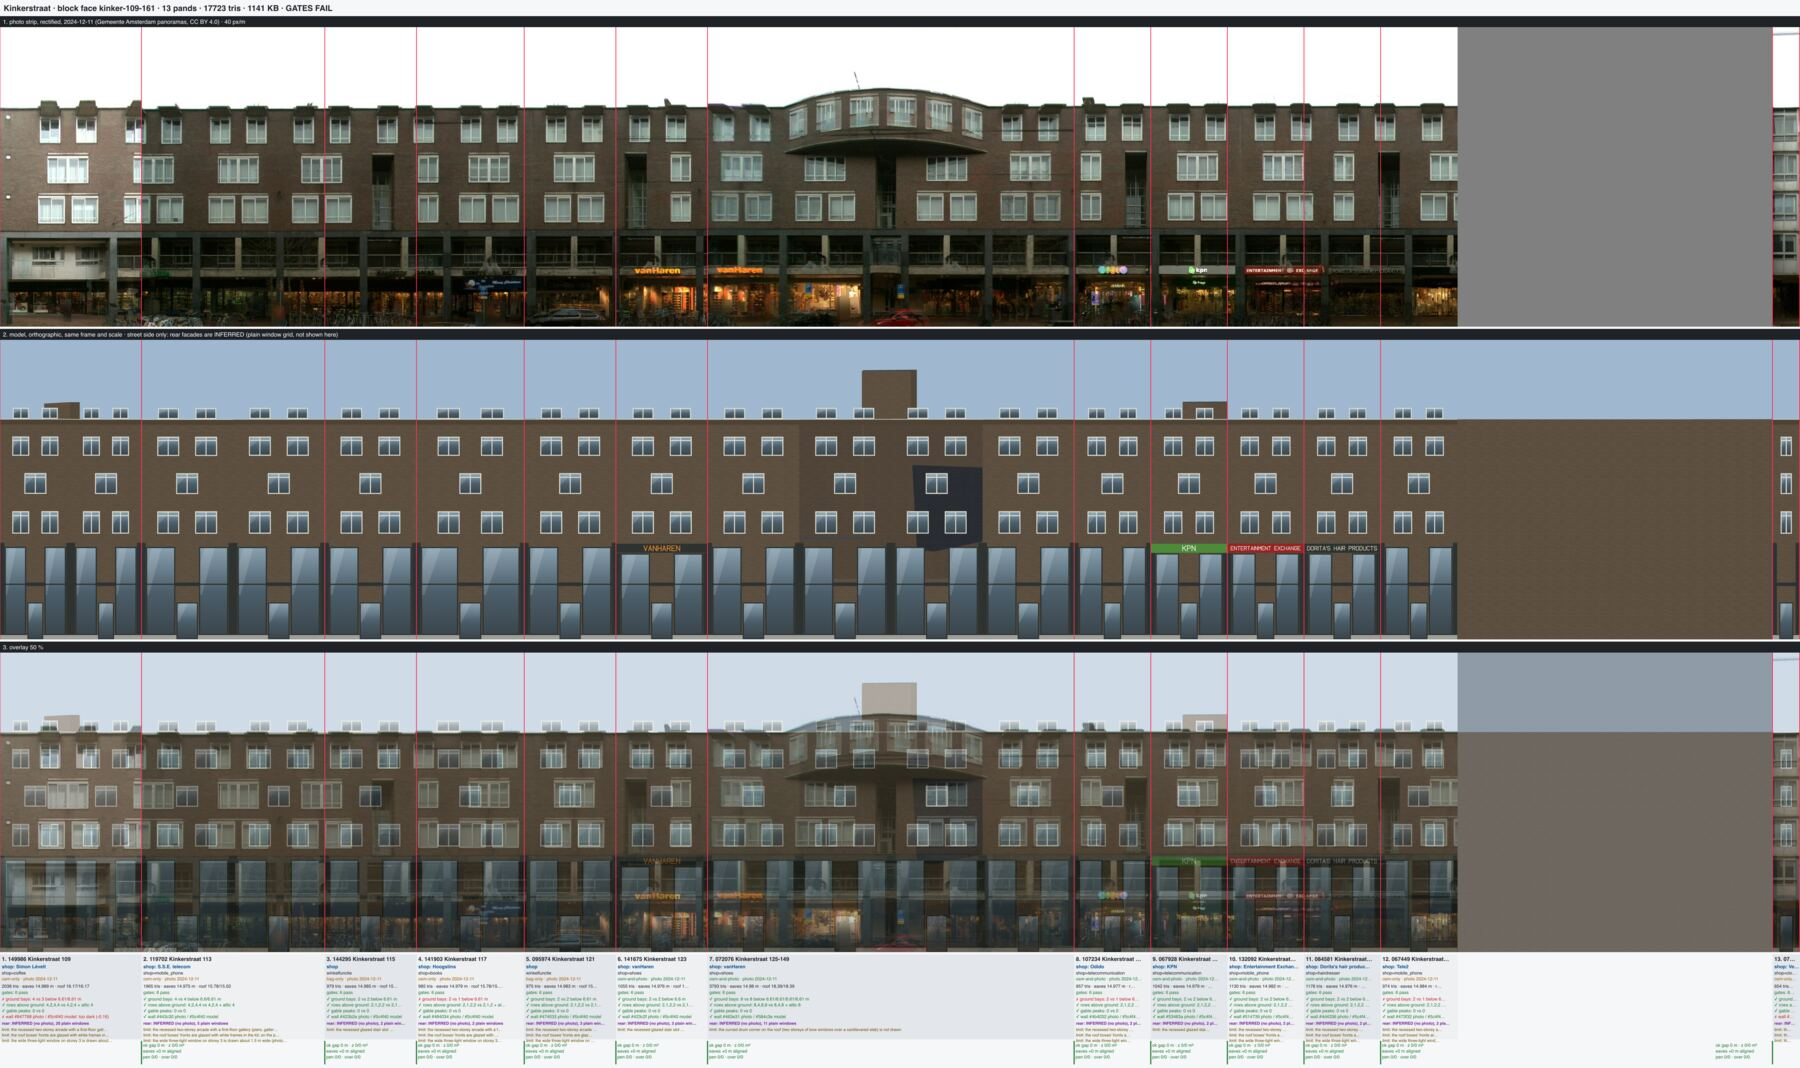
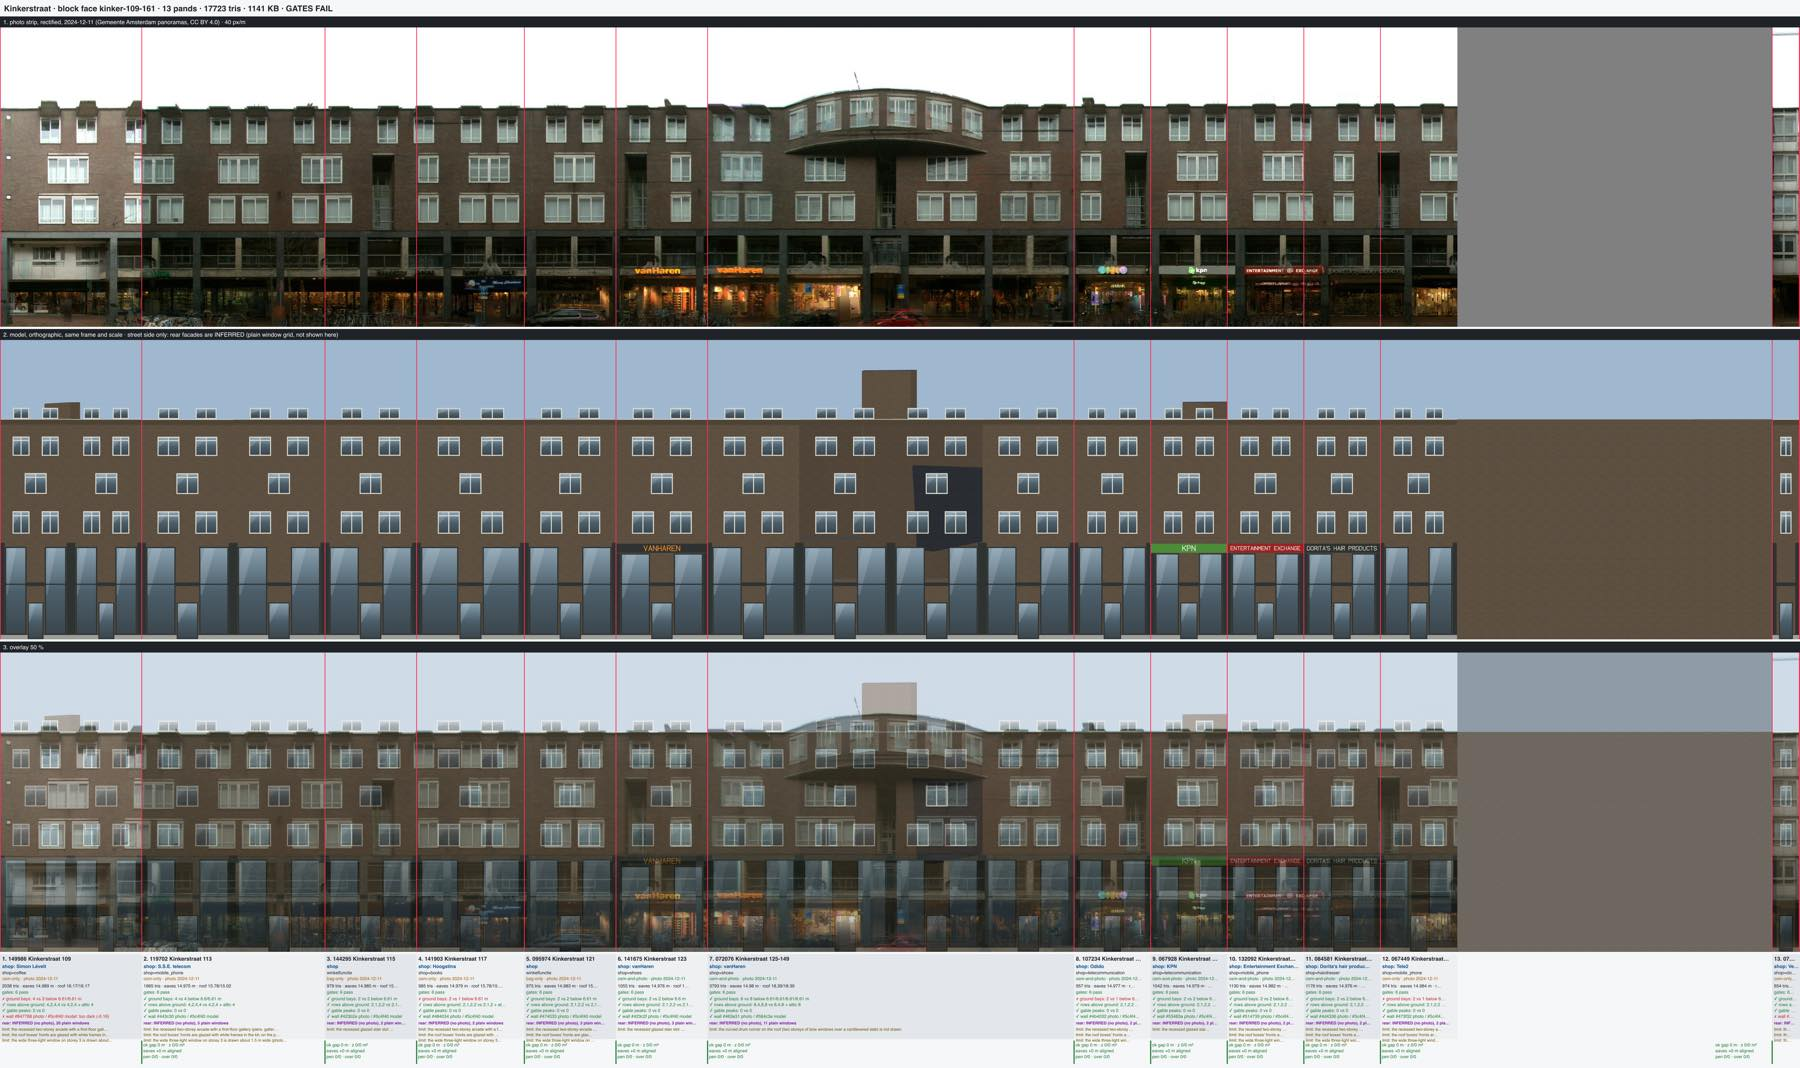
Kinkerstraat types take the Oud-West 1900 keys: painted sill and transom courses on the 1890 brick-arched row, painted brick on black-painted
kinker-1890-brick-arched: bands painted on the sill and transom lines at 0.10 / 0.12 m, the type's own measured band
rows. The planned 0.04 / 0.05 m sill + head bands drew 2 px lines at 40 px/m and put the upper course on the arch
springing, ~0.75 m above the photo's course. kinker-1895-painted-band black-painted: wallMaterial painted-brick
instead of the stucco slot. kinker-2-30 recompiled (28,695 -> 32,043 tris, gates pass, GLB audit z-fight unchanged
from main) and its sheet and 18-4 zoom re-rendered; kinker-109-161 chunk byte-identical, sheet re-rendered.
Named regression in kinkerstraat.test.ts.

diff --git a/src/canalRecall/buildingRecipe/kinkerstraat.test.ts b/src/canalRecall/buildingRecipe/kinkerstraat.test.ts
@@ -72,4 +72,10 @@ test('Kinkerstraat proof faces (named regressions): 109-161 places the infill ty
   assert.equal(k8.windows, 't-window');
   assert.deepEqual(k8.windowHead?.archRing, {colour: 'stone', style: 'blocks', keystone: true}, 'Kinkerstraat 8: white blocked arch with keystone');
   assert.equal(row.find(i => i.pandId.endsWith('236471'))!.fronts[0].windowHead?.kind, 'flat', 'Kinkerstraat 28: flat heads under keystones');
+  // Oud-West 1900 keys wired after the Nassaukade merge: the 18-4 row's white sill and transom courses, 28's paint.
+  assert.equal(k8.bands, 'painted', 'Kinkerstraat 8: painted sill and transom courses');
+  assert.deepEqual(k8.bandLines, ['sill', 'transom']);
+  assert.deepEqual(k8.bandHeights, {sill: 0.1, transom: 0.12}, 'measured band rows, 0.10-0.13 m');
+  const k28 = row.find(i => i.pandId.endsWith('236471'))!;
+  assert.equal(k28.fronts[0].palette?.wallMaterial ?? k28.palette.wallMaterial, 'painted-brick', 'Kinkerstraat 28: black-painted brick');
 });

diff --git a/docs/kinkerstraat-types-20261014.md b/docs/kinkerstraat-types-20261014.md
@@ -75,11 +75,16 @@ Keys from other lanes used here, so that nothing is duplicated: `windows: "t-win
 {colour, style: "blocks", keystone}}`, `windowHeights`, `windowShare`, `storeyHeights`, `cornice: "frieze"`,
 `windowSurround: "sill"` and `bands: "speklagen"` come from the canal-windows lane (on main). The sill and head
 courses of `kinker-1890-brick-arched` belong to the Oud-West 1900 lane's `bands: "painted"` + `bandHeights`, and the
-black paint of `kinker-1895-painted-band` belongs to its `wallMaterial: "painted-brick"`. That lane is not on main yet
-(WIP commit d3f4ba0e, based before canal-windows). Until it lands, the committed types leave the painted courses out and
-draw black paint as the `stucco` slot. When it lands: add `"bands": "painted", "bandHeights": {"sill": 0.04, "head": 0.05}`
-to the `kinker-1890-brick-arched` body and switch `black-painted` to `wallMaterial: "painted-brick"`. The measured band
-heights above are the evidence for both.
+black paint of `kinker-1895-painted-band` belongs to its `wallMaterial: "painted-brick"`. Both are wired since the
+Nassaukade 506 merge (2026-10-14):
+
+- `kinker-1890-brick-arched` carries `"bands": "painted", "bandLines": ["sill", "transom"], "bandHeights": {"sill": 0.10,
+  "transom": 0.12}`. The hand-off planned `{"sill": 0.04, "head": 0.05}` with the default sill + head lines. On the sheet
+  that drew 1.6-2 px lines (40 px/m), invisible at gallery size, and put the upper line on the arch springing, about
+  0.75 m above the photo's course, which crosses the upper light. The type's own band rows (5.1-5.2, 7.15-7.28 m on
+  162482 and 236814) are 0.10-0.13 m tall, so the heights are those, and the upper line is the transom band (0.78 of the
+  window height), which lands within about 0.3 m of the photo's course.
+- `kinker-1895-painted-band`'s `black-painted` palette is `wallMaterial: "painted-brick"` instead of the `stucco` slot.
 
 ## Proof faces
 
@@ -124,8 +129,10 @@ colours are within tolerance.
 
 Verdict against the photo: storey lines, window axes, T-windows, blocked arch rings with keystones, the cornice line and
 the dormer rhythm read right at gallery size, and so do the pui colours (timber 12A-12C, black, red, white). The 18-4
-row's white sill and impost courses are missing until `bands: painted` lands, and that is the most visible difference
-on the sheet. Also still wrong: the frieze is a plain cream slab (the photo has consoles and panels); the dormers are
+row's white sill and impost courses are now drawn (`bands: painted`, sheet re-rendered after the Nassaukade merge): the
+sill course sits on the photo's sill line; the upper course sits on the T-window transom, about 0.3 m above the photo's
+course; both are a grey stone colour where the photo's are bright white, and continuous where the photo's upper course
+is a dotted line of blocks. Also still wrong: the frieze is a plain cream slab (the photo has consoles and panels); the dormers are
 plain pediment boxes (the photo's have scrolled cheeks); 22-24's round-topped shell dormers are drawn as pediments; the
 corner block's two blind white-painted axes are glazed; Kinkerstraat 2's dashed white head band is missing. The
 orthographic view also shows 3DBAG roof masses above the cornice (the mansards, and a tall rear block over 4-6).
@@ -138,7 +145,8 @@ above the ground once per-house photo rows counted modules and dormers.
 
 ## What the kit still cannot say (Kinkerstraat)
 
-- **Painted courses at sill and impost height** (Oud-West lane's `bands: painted`, not on main). Also the dotted
+- **A painted course at an arbitrary height in the window** (`bands: painted` puts the transom line at a fixed 0.78
+  of the window; the 18-4 row's course is at about 0.63). Also the dotted
   variant: on 18-4 and 296-300 the impost course is a line of white blocks joined to the arch springers, not a
   continuous band.
 - **Recessed arcade with a first-floor gallery** (109-161, 173-225): piers in front, shops set back ~3 m, a gallery
